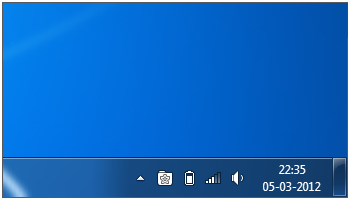
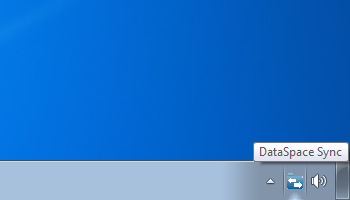
DataSpace Sync Release 1.0.0
The main changes and feature are:
- Local folder walk through has been replaced by file system event
  based synchronization mechanism.
- Add folder dialog has been improved:
 - Second page has been redesigned to enable a feature to ignore folder
 - Second page loads the folder tree asynchronous in background
 - Second page loads the folder tree with the cmis command
   getFolderTree, if the server provides this capability from
   synchronization
 - Third page has been changed to show the hostname and repository
   name as default path
- Also in the background, the configuration file read/write mechanism
  has been changed from manual XML-Processing to C# serialization.
- A lot of tiny UI issues are fixed.

Changed region(s): [[0.0, 0.0, 1.0, 1.0]]

diff --git a/README.md b/README.md
@@ -1,13 +1,13 @@
-## CmisSync
+## DataSpace Sync
 
-[CmisSync](http://CmisSync.com) allows you to keep in sync with your CMIS repository. It is like Dropbox for Enterprise Content Management!  
-See: http://CmisSync.com
+[DataSpace Sync](http://graudata.com) allows you to keep in sync with your DataSpace (CMIS) repository. It is like Dropbox for Enterprise Content Management!
+See: http://graudata.com
 
 ### License
 
-CmisSync is Open Source software and licensed under the `GNU General Public License version 3 or later`. You are welcome to change and redistribute it under certain conditions. For more information see the `legal/LICENSE` file.
+DataSpace Sync is Open Source software and licensed under the `GNU General Public License version 3 or later`. You are welcome to change and redistribute it under certain conditions. For more information see the `legal/LICENSE` file.
 
 ### Development
 
-We are looking for volunteers!  
-See [how to get started developing CmisSync](https://github.com/nicolas-raoul/CmisSync/wiki/Getting-started-with-CmisSync-development)
+We are looking for volunteers!
+See [how to get started developing DataSpace Sync or CmisSync](https://github.com/nicolas-raoul/CmisSync/wiki/Getting-started-with-CmisSync-development)
